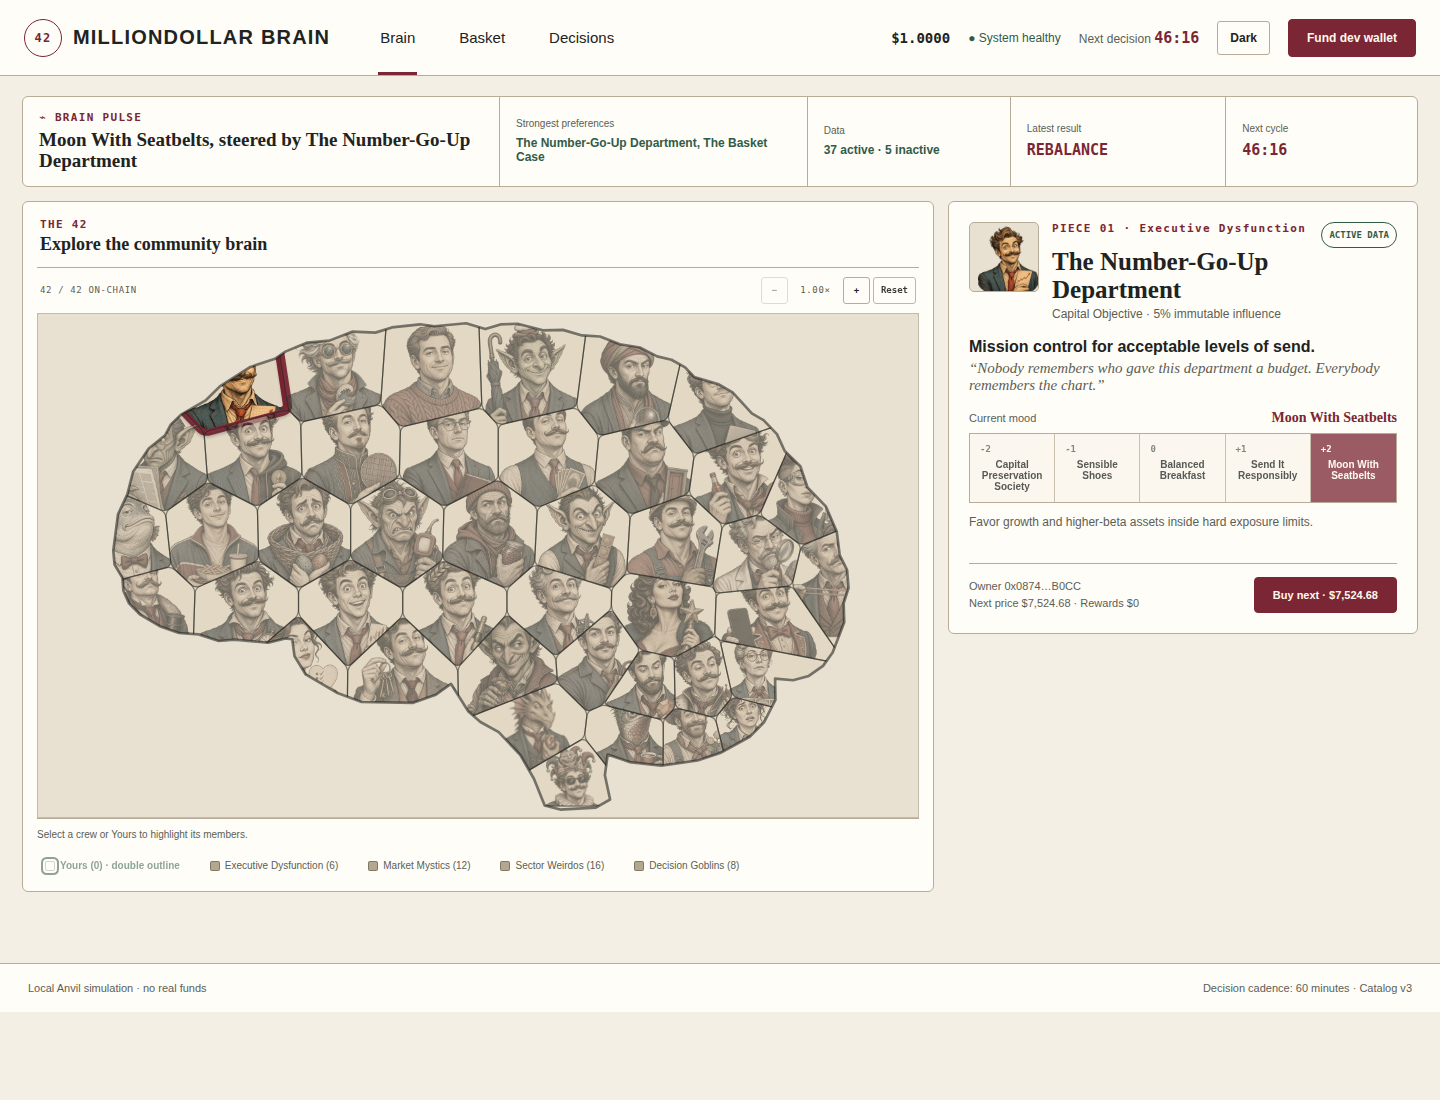
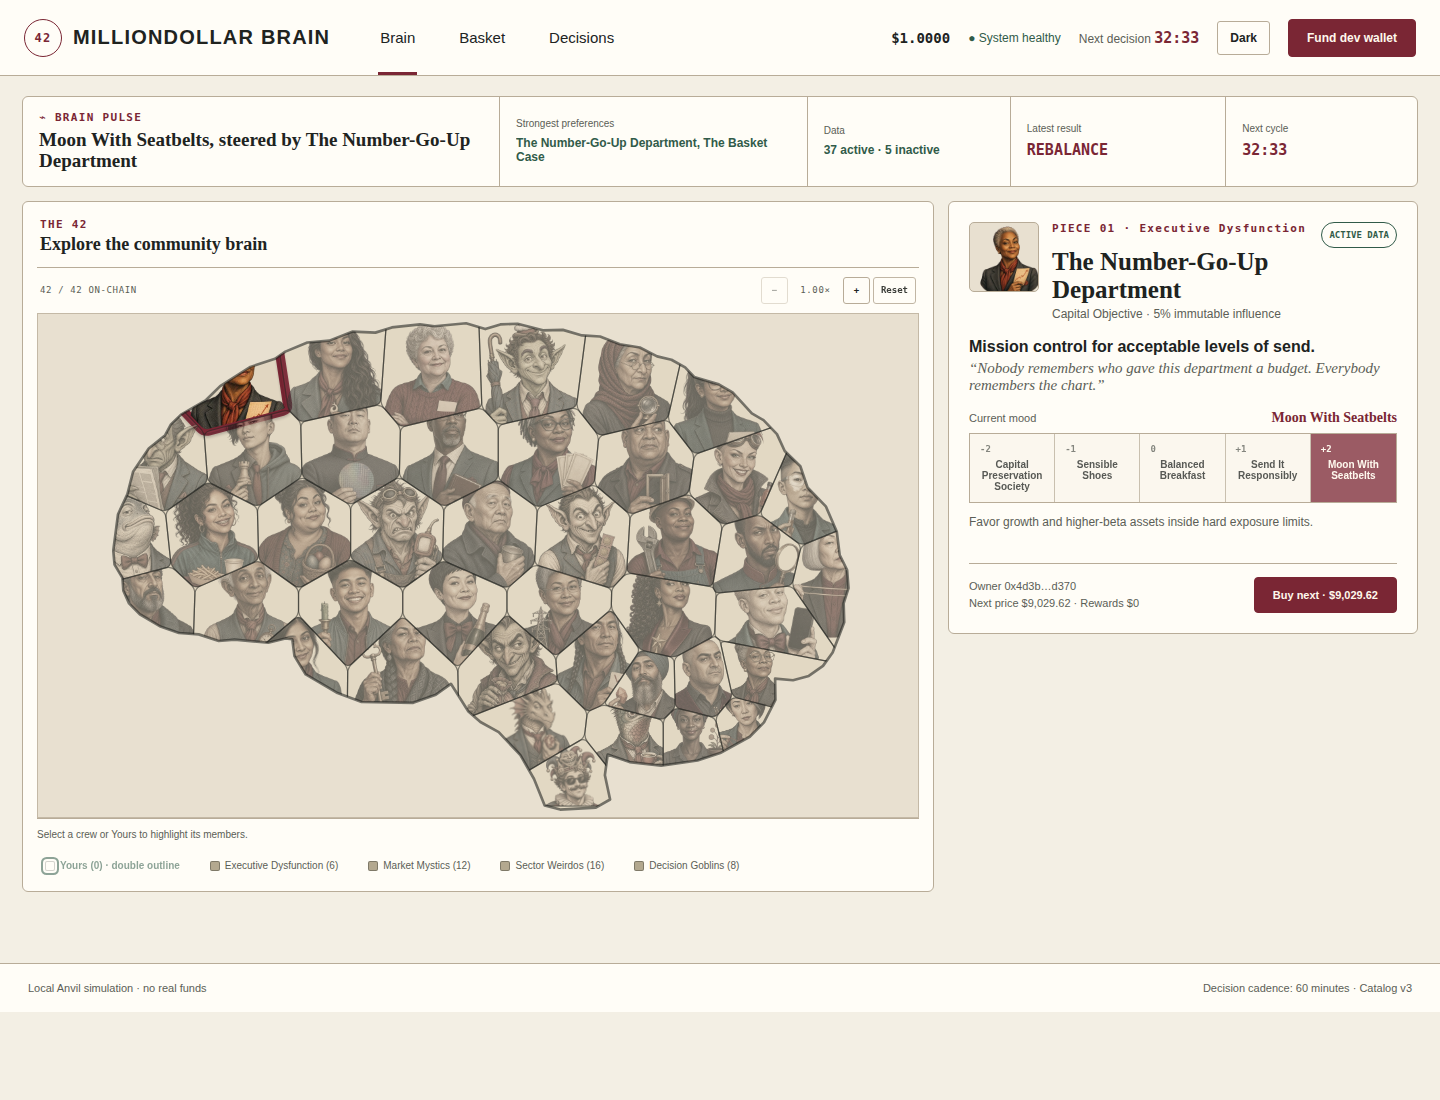
Diversify_brain_character_cast

diff --git a/apps/web/components/editorial-dashboard.tsx b/apps/web/components/editorial-dashboard.tsx
@@ -259,7 +259,7 @@ export function EditorialDashboard({
                 <div className="piece-ledger-head">
                   <span className="detail-portrait">
                     <img
-                      src={`/brain-art/v2/piece-${String(selected.id).padStart(2, "0")}.webp`}
+                      src={`/brain-art/v3/piece-${String(selected.id).padStart(2, "0")}.webp`}
                       alt=""
                       aria-hidden="true"
                     />

diff --git a/apps/web/components/brain-map.tsx b/apps/web/components/brain-map.tsx
@@ -32,7 +32,7 @@ type BrainMapProps = {
 };
 
 function portraitPath(pieceId: number) {
-  return `/brain-art/v2/piece-${String(pieceId).padStart(2, "0")}.webp`;
+  return `/brain-art/v3/piece-${String(pieceId).padStart(2, "0")}.webp`;
 }
 
 function shortOwner(owner: string) {

diff --git a/design/brain-art/build-v3-assets.py b/design/brain-art/build-v3-assets.py
@@ -1,0 +1,134 @@
+"""Build the cache-safe v3 brain portrait set from ImageGen source PNGs."""
+
+from __future__ import annotations
+
+import argparse
+import shutil
+import subprocess
+import tempfile
+from pathlib import Path
+
+from PIL import Image, ImageDraw, ImageFont
+
+
+GENERATED_SOURCES = {
+    1: "call_4smtXKrMTV16pJEbOAl78xAg.png",
+    2: "exec-40476ae6-a234-4d57-ba79-4a108273b9cd.png",
+    3: "exec-70a7455c-cd83-4f99-8c12-cf104ef807d8.png",
+    4: "exec-087def70-d648-40d1-b6f9-373eacd63d9c.png",
+    7: "exec-48ebd0a2-f65c-4e06-801c-6f0a49a17f6f.png",
+    8: "exec-91c337ce-3493-4dd4-b3cd-0dd38ace6f88.png",
+    9: "exec-4d61948c-03a6-4d05-95a2-1a2e63c19de0.png",
+    10: "exec-4a35c884-4848-4c87-8f8c-b5ed3c800c54.png",
+    13: "exec-a89e1237-ba50-4c7c-9bd8-5463791bbc3d.png",
+    14: "exec-e465dc78-3255-4295-95c3-1121717b00a6.png",
+    15: "exec-272604c4-6bca-4b2a-8eb5-073746dc05a0.png",
+    16: "exec-ddadbebc-9381-464b-92ca-aabeaae9f96b.png",
+    17: "exec-7ac384ee-ef04-4384-9e48-76ab4a9424f2.png",
+    18: "exec-7320ec40-2e06-47d6-9920-3719d9948acb.png",
+    19: "exec-0ada3c22-5f05-413f-8a84-f98af4dd9052.png",
+    20: "exec-9989ccc2-aa7e-49ca-acb4-d88e5652d1c8.png",
+    21: "exec-5dc52d33-5ac3-4068-bddc-f3c036b141b2.png",
+    22: "exec-4bdec301-1158-44a3-b900-2907f921728a.png",
+    23: "exec-f7b19c1f-fb5f-4d44-b2e0-51b2e00ab827.png",
+    24: "exec-f7a0f391-9866-4a71-8482-5ae73dad2755.png",
+    25: "exec-8ee7631d-084f-4af9-ade5-d04d31135d7d.png",
+    26: "exec-c58982ef-30d6-4aa0-9226-0d3c80f587f3.png",
+    27: "exec-a5c7c573-7feb-4fcf-992a-73d5a9bd31af.png",
+    28: "exec-eb8664ac-9ca2-491a-afee-29a6ecaccbf0.png",
+    29: "exec-27527edf-a6f6-43f5-8ff6-a475f2f70d04.png",
+    30: "exec-556805c0-bf91-41a8-8353-5f080d583c85.png",
+    31: "exec-45da3380-a9d2-4fcd-b3d7-45b529f4ac65.png",
+    32: "exec-03129193-6894-43f6-a5fa-fcc82490448f.png",
+    37: "exec-690f2f20-98d1-4f82-86da-2c969cddb2be.png",
+    39: "exec-005f0edb-d88c-4f5e-b8e4-ec8fb0e74cae.png",
+    40: "exec-e41d8380-ea7f-490f-887f-f3de2ff5419d.png",
+    41: "exec-d4b7231b-b79d-433f-9350-11e4d5d83058.png",
+    42: "exec-387b71c2-063b-4844-b2d0-a25fd8007626.png",
+}
+RETAINED_PIECES = {5, 6, 11, 12, 33, 34, 35, 36, 38}
+
+
+def build(source_dir: Path, helper: Path, v2_dir: Path, v3_dir: Path, atlas: Path) -> None:
+    v3_dir.mkdir(parents=True, exist_ok=True)
+
+    with tempfile.TemporaryDirectory(prefix="brain-art-v3-") as temp_name:
+        temp_dir = Path(temp_name)
+        for piece_id, source_name in GENERATED_SOURCES.items():
+            output_webp = v3_dir / f"piece-{piece_id:02d}.webp"
+            if output_webp.exists():
+                continue
+            keyed_png = temp_dir / f"piece-{piece_id:02d}.png"
+            subprocess.run(
+                [
+                    "python",
+                    str(helper),
+                    "--input",
+                    str(source_dir / source_name),
+                    "--out",
+                    str(keyed_png),
+                    "--auto-key",
+                    "border",
+                    "--soft-matte",
+                    "--transparent-threshold",
+                    "12",
+                    "--opaque-threshold",
+                    "220",
+                    "--despill",
+                    "--force",
+                ],
+                check=True,
+            )
+            with Image.open(keyed_png) as image:
+                resized = image.convert("RGBA").resize((384, 384), Image.Resampling.LANCZOS)
+                resized.save(
+                    output_webp,
+                    "WEBP",
+                    lossless=False,
+                    quality=88,
+                    method=6,
+                )
+
+    for piece_id in RETAINED_PIECES:
+        shutil.copy2(
+            v2_dir / f"piece-{piece_id:02d}.webp",
+            v3_dir / f"piece-{piece_id:02d}.webp",
+        )
+
+    create_atlas(v3_dir, atlas)
+
+
+def create_atlas(v3_dir: Path, output: Path) -> None:
+    columns, rows = 7, 6
+    cell_width, cell_height = 180, 180
+    canvas = Image.new("RGB", (columns * cell_width, rows * cell_height), "#e8ddc8")
+    draw = ImageDraw.Draw(canvas)
+    font = ImageFont.load_default(size=18)
+
+    for index in range(42):
+        piece_id = index + 1
+        column, row = index % columns, index // columns
+        x, y = column * cell_width, row * cell_height
+        with Image.open(v3_dir / f"piece-{piece_id:02d}.webp") as portrait:
+            portrait = portrait.convert("RGBA").resize((164, 164), Image.Resampling.LANCZOS)
+            canvas.paste(portrait, (x + 8, y + 8), portrait)
+        draw.rounded_rectangle((x + 10, y + 10, x + 43, y + 39), 8, fill="#f4ead7")
+        draw.text((x + 18, y + 15), f"{piece_id:02d}", fill="#321f1b", font=font)
+
+    output.parent.mkdir(parents=True, exist_ok=True)
+    canvas.save(output, "WEBP", quality=90, method=6)
+
+
+def parse_args() -> argparse.Namespace:
+    parser = argparse.ArgumentParser()
+    parser.add_argument("--source-dir", required=True, type=Path)
+    parser.add_argument("--helper", required=True, type=Path)
+    parser.add_argument("--v2-dir", required=True, type=Path)
+    parser.add_argument("--v3-dir", required=True, type=Path)
+    parser.add_argument("--atlas", required=True, type=Path)
+    return parser.parse_args()
+
+
+if __name__ == "__main__":
+    args = parse_args()
+    build(args.source_dir, args.helper, args.v2_dir, args.v3_dir, args.atlas)

diff --git a/MEMORY.md b/MEMORY.md
@@ -5,7 +5,7 @@ Durable project context lives here. Update this file whenever information should
 ## Active Handoff
 
 - Current task: Finish and verify the usable local-devnet release on VM `192.168.50.135`.
-- Last meaningful change: Removed the Characters/Ownership/Influence/Mood map selector and made the Brain one stable character-first view; ownership remains visible through halos and `Yours`, while influence and mood remain in labels, tooltips, and the inspector.
+- Last meaningful change: Replaced the repetitive human portrait roster with 33 individually generated, visibly distinct people while retaining nine already-distinct beasts and characters. The cache-safe v3 set preserves the established engraved editorial style.
 - Next step: Keep the native services healthy and use the release at `http://192.168.50.135:3000`; Robinhood public testnet work begins only when canonical asset, oracle, venue, signer, and RPC inputs are supplied.
 - Blockers: None for local use. Real-value activation remains gated on counsel, production integrations and credentials, multisig/timelock migration, a professional audit, and Robinhood Chain release manifests.
 
@@ -14,6 +14,7 @@ Durable project context lives here. Update this file whenever information should
 - MillionDollar Brain is a proposed Robinhood Chain product combining a basket-backed share, a 42-piece community-controlled AI context, scheduled portfolio proposals, deterministic risk controls, and fee-funded creator/brain rewards.
 - The authoritative VM repository contains a working local Anvil release with upgradeable contracts, a Next.js application, built-in development wallet, hourly Ornith allocator, systemd services, and Playwright Chromium UAT.
 - The 42-piece visual brain uses one continuous traced lateral silhouette. Semantic placement metadata labels 34 cerebrum pieces, 6 cerebellum pieces, and 2 brainstem pieces while preserving every canonical NFT ID and all economic mappings.
+- The current `/brain-art/v3/` portrait roster deliberately varies age, sex and gender presentation, race and ethnicity, face shape, body type, hair, silhouette, expression, and prop; it remains 42 transparent 384-by-384 WebPs totaling about 1.4 MiB.
 - `PRD.md` v1.0 plus its ten linked normative specifications is the authoritative requirements set.
 - `PRODUCT_BRIEF.md` is superseded historical context.
 - No internal MVP implementation decision remains open. `BUILD_READINESS.md` distinguishes locked engineering defaults from external production inputs and release gates.
@@ -101,6 +102,7 @@ When sources conflict, use this order:
 - 2026-07-26: Removed the duplicate Basket Snapshot from Brain and kept basket composition and funding actions on the dedicated Basket screen. Added a persistent double-outline halo for pieces owned by the connected wallet in Characters, Ownership, Influence, and Mood modes, with a textual `Yours (n)` legend. Next production build, Prettier, full Chromium UAT, live no-overflow check, and in-app-browser visual review pass.
 - 2026-07-26: Made `Yours (n) · double outline` clickable in every Brain map mode. It uses the same pressed-state, dim-nonmembers, and second-click-to-clear behavior as crew filters; choosing a crew clears `Yours` and choosing `Yours` clears the crew. Production build, full Chromium economic UAT, and live in-app-browser verification pass with exactly two connected-wallet-owned pieces highlighted and no horizontal overflow.
 - 2026-07-26: Removed the Brain's Characters/Ownership/Influence/Mood selector and its unused mode state, presentation type, SVG patterns, semantic fills, and legends. The map is now one character-first view with crew filters and the interactive `Yours` ownership filter; influence and current mood remain visible through accessible labels, tooltips, and the inspector. Production build, full Chromium economic UAT, live visual review, two-piece `Yours` filtering, and no-overflow checks pass.
+- 2026-07-26: Verified the diversified v3 character roster: exactly 42 unique transparent 384-by-384 WebPs with valid alpha corners and a 1.4 MiB total budget. Next.js production build, Prettier, the full economic/autonomous-cycle Chromium UAT, live light/dark visual review, and zero browser console errors pass.
 
 ## Decisions
 
@@ -216,6 +218,15 @@ When sources conflict, use this order:
 - Commands/tests: Documentation consistency audit, current official Robinhood Chain provider research, semantic color contrast calculations.
 - Result: No internal MVP product or architecture decision remains open. Local and testnet engineering can begin after explicit authorization.
 - Follow-up: Obtain explicit build authorization. Treat counsel policy, signer addresses, funded balances, credentials, live release manifests, and audit acceptance as external production gates rather than engineering design choices.
+
+### 2026-07-26 - Diverse Character Roster
+
+- Context: The v2 humans frequently read as the same narrow-faced white man in different clothing, weakening the collectible identity of the 42-piece brain.
+- Decision: Regenerate 33 human pieces as visibly distinct people while locking the engraved editorial screen-print style, framing, palette, transparency, and catalog mappings. Retain nine already-distinct beasts and characters.
+- Files: `apps/web/public/brain-art/v3/`, `apps/web/components/brain-map.tsx`, `apps/web/components/editorial-dashboard.tsx`, `design/brain-art/`, `tests/uat.mjs`.
+- Commands/tests: ImageGen, chroma-key helper, 384-by-384 alpha validation, Prettier, Next.js production build, full Chromium UAT, live light/dark browser review.
+- Result: The live brain has a balanced range of ages, sex and gender presentations, races and ethnicities, face shapes, body types, hairstyles, silhouettes, and props without changing any economics or interaction behavior.
+- Follow-up: None.
 
 ## Known Issues
 

diff --git a/design/brain-art/README.md b/design/brain-art/README.md
@@ -2,27 +2,27 @@
 
 The Brain screen uses a hybrid art and interaction system:
 
-- `apps/web/public/brain-art/v2/piece-01.webp` through `piece-42.webp` are the current transparent collectible portraits in canonical catalog order. The versioned directory prevents stale browser caches.
+- `apps/web/public/brain-art/v3/piece-01.webp` through `piece-42.webp` are the current transparent collectible portraits in canonical catalog order. The versioned directory prevents stale browser caches.
 - `apps/web/lib/brain-presentation.ts` is the 42-entry visual manifest and anatomical source of truth. It contains one continuous traced lateral-brain silhouette plus semantic cerebrum, cerebellum, and brainstem placement metadata, curved path geometry, centers, directional keyboard neighbors, and portrait transforms separately from economic catalog data.
 - `apps/web/components/brain-map.tsx` uses those 42 accessible SVG paths for hit testing, roving keyboard focus, ownership state, selection, data-mode fills, and clipping.
 - The raster artwork is presentation only. It never replaces the accessible SVG interaction model or the on-chain piece identity.
 
-![42-character v2 art roster](character-atlas-v2.webp)
+![42-character v3 art roster](character-atlas-v3.webp)
 
-## V2 generation direction
+## V3 generation direction
 
 All artwork was generated with the built-in ImageGen workflow and then locally chroma-keyed to alpha. The shared prompt direction was:
 
 > Engraved editorial screen-print illustration with warm parchment faces and clothing, dark charcoal crosshatching, restrained oxblood and muted teal accents, consistent head-and-shoulders framing, one character-defining prop, a uniform magenta key background, and no embedded text, numbers, frame, scenery, watermark, or brand logo.
 
-The v2 collection was generated one character at a time. Piece 1 established the locked style reference; pieces 2 through 42 used piece 1 and the original editorial study as visual references. Character identity follows `BRAIN_CHARACTERS.md`.
+The v3 collection keeps the locked editorial style while deliberately separating the cast by age, sex and gender presentation, race and ethnicity, face shape, body type, hair, silhouette, expression, and prop. Thirty-three human portraits were regenerated individually. Nine already-distinct beast and character portraits were retained: pieces 5, 6, 11, 12, 33, 34, 35, 36, and 38. Character identity follows `BRAIN_CHARACTERS.md`.
 
-The magenta sources were keyed with the ImageGen chroma-key helper, downsampled as complete canvases to preserve apparent scale, and encoded as transparent 384 by 384 WebPs. The retained project deliverables are the v2 WebPs and the contact sheet above.
+The magenta sources were keyed with the ImageGen chroma-key helper, downsampled as complete canvases to preserve apparent scale, and encoded as transparent 384 by 384 WebPs. `build-v3-assets.py` records the source-to-piece mapping and repeatable asset build. The retained project deliverables are the v3 WebPs and the contact sheet above.
 
 ## Runtime constraints
 
 - Each piece asset is 384 by 384 with transparency.
-- The 42 v2 portraits total approximately 1.8 MB.
+- The 42 v3 portraits total less than 1.5 MB.
 - Portraits are clipped to their own curved SVG segment.
 - Theme-aware vector backplates remain visible below transparent portrait areas.
 - The anatomical distribution is 34 cerebrum pieces, 6 cerebellum pieces, and 2 brainstem pieces. These labels guide placement only: every cell is tessellated inside the same continuous outer mask. This presentation grouping does not alter catalog IDs or economics.
